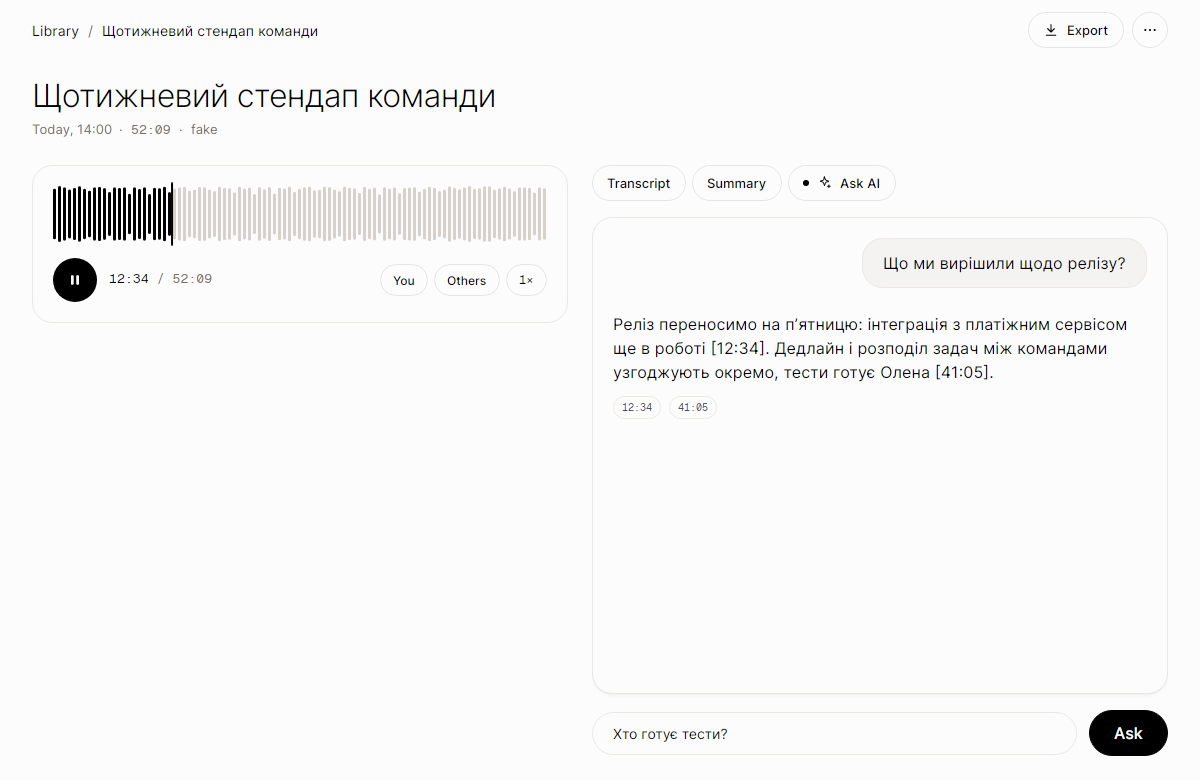
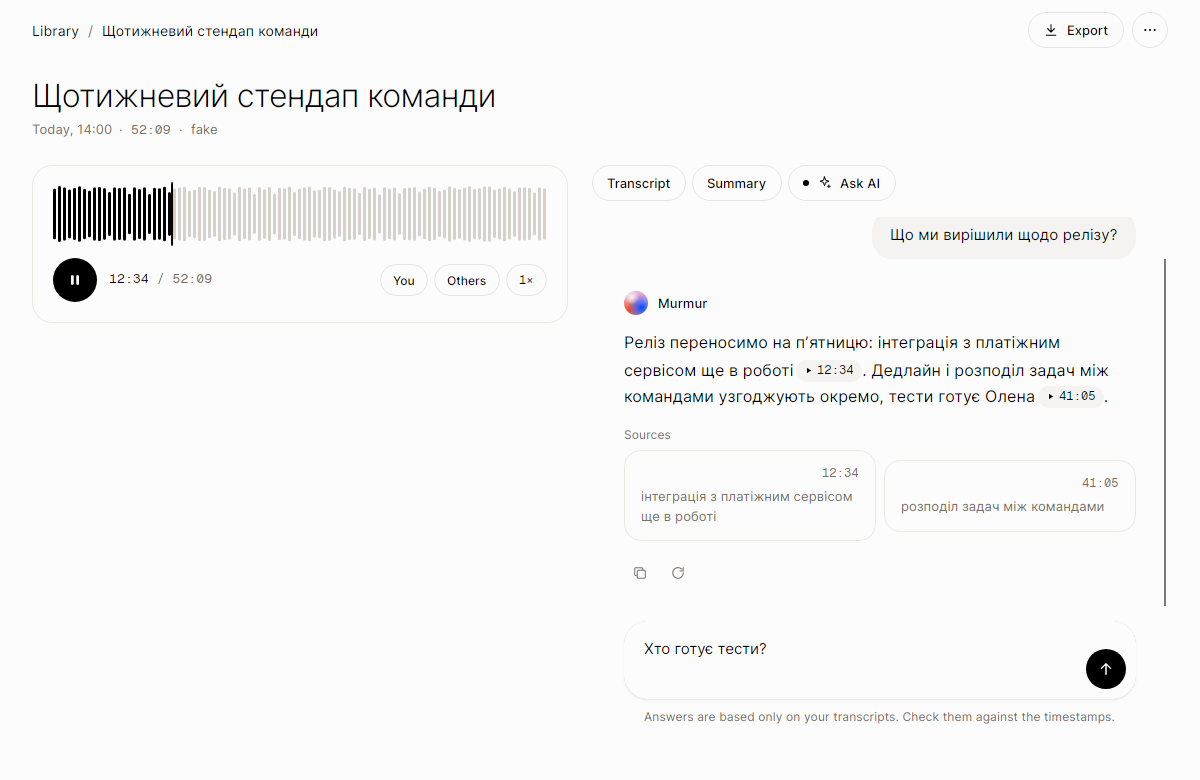
feat(session): the screen video follows the playback speed
MediaEngineVideoPlayer implements IVideoPlayerControls; SessionViewModel hands the
speed in effect to the video on every change, when the player is created and after
each segment open. Sync simulation at 0.75-2x, App tests, D-046 and docs updated.

diff --git a/tests/Murmur.Core.Tests/Playback/ScreenPlaybackSyncTests.cs b/tests/Murmur.Core.Tests/Playback/ScreenPlaybackSyncTests.cs
@@ -315,6 +315,38 @@ public sealed class ScreenPlaybackSyncTests
         Assert.True(sim.PlaceholderTicks > 0);
     }
 
+    [Theory]
+    [InlineData(0.75)]
+    [InlineData(1.25)]
+    [InlineData(1.5)]
+    [InlineData(2)]
+    public void Simulation_AtAnotherSpeed_AVideoAtTheSameRate_StaysInSync_WithoutConstantSeeks(double rate)
+    {
+        // Both clocks run in media time: the audio position advances `rate` x wall time and so does the video at the same rate.
+        var segments = new[] { new ScreenSegment(0, S(3), S(10)), new ScreenSegment(1, S(20), S(12)) };
+        var sim = new Simulation(segments, openLatency: 120 * Ms, seekLatency: 80 * Ms, audioRate: rate, videoRate: rate);
+        sim.Audio.Play();
+        sim.Run(S(40 / rate));
+
+        Assert.Equal([0, 1], sim.Video.Opened);
+        Assert.True(sim.Video.Seeks.Count <= 4, $"{sim.Video.Seeks.Count} seeks at {rate}x");
+        // The open and seek latencies are wall time, so the media time that passes while they last grows with the rate.
+        Assert.True(sim.OutOfSyncTicks <= 20 * Math.Max(1, rate) + 2, $"{sim.OutOfSyncTicks} ticks out of sync at {rate}x");
+    }
+
+    [Fact]
+    public void Simulation_AtDoubleSpeed_AVideoLeftAt1x_IsReSoughtAllTheTime()
+    {
+        // The reason the video follows the speed: at 1x it falls 1 s behind per second and is seeked back over and over.
+        var segments = new[] { new ScreenSegment(0, S(3), S(30)) };
+        var sim = new Simulation(segments, openLatency: 120 * Ms, seekLatency: 80 * Ms, audioRate: 2, videoRate: 1);
+        sim.Audio.Play();
+        sim.Run(S(12));
+
+        Assert.True(sim.Video.Seeks.Count >= 8, $"{sim.Video.Seeks.Count} seeks");
+        Assert.True(sim.OutOfSyncTicks > 40, $"{sim.OutOfSyncTicks} ticks out of sync");
+    }
+
     [Fact]
     public void Simulation_UserSeeksAcrossSegments_FollowTheAudio()
     {
@@ -435,12 +467,12 @@ public sealed class ScreenPlaybackSyncTests
     {
         private static readonly TimeSpan Tick = TimeSpan.FromMilliseconds(33);
 
-        public Simulation(ScreenSegment[] segments, TimeSpan openLatency, TimeSpan seekLatency, bool frozen = false, TimeSpan[]? seekLatencies = null)
+        public Simulation(ScreenSegment[] segments, TimeSpan openLatency, TimeSpan seekLatency, bool frozen = false, TimeSpan[]? seekLatencies = null, double audioRate = 1, double videoRate = 1)
         {
             Time = new ManualTimeProvider();
             Sync = new ScreenPlaybackSync(segments, time: Time);
-            Audio = new FakeAudio(S(40));
-            Video = new FakeVideo(Time, segments, openLatency, seekLatencies ?? [seekLatency], frozen);
+            Audio = new FakeAudio(S(40), audioRate);
+            Video = new FakeVideo(Time, segments, openLatency, seekLatencies ?? [seekLatency], frozen, videoRate);
         }
 
         public ManualTimeProvider Time { get; }
@@ -517,7 +549,7 @@ public sealed class ScreenPlaybackSyncTests
         }
     }
 
-    private sealed class FakeAudio(TimeSpan duration)
+    private sealed class FakeAudio(TimeSpan duration, double rate = 1)
     {
         public TimeSpan Position { get; private set; }
 
@@ -533,7 +565,7 @@ public sealed class ScreenPlaybackSyncTests
         {
             if (IsPlaying)
             {
-                Position += by;
+                Position += by * rate;
                 if (Position >= duration)
                 {
                     Position = duration;
@@ -548,7 +580,7 @@ public sealed class ScreenPlaybackSyncTests
     /// the picture stands still for the seek latency; at its end playback stops. A frozen one never advances (a decoder
     /// that cannot keep up at all).
     /// </summary>
-    private sealed class FakeVideo(ManualTimeProvider time, ScreenSegment[] segments, TimeSpan openLatency, TimeSpan[] seekLatencies, bool frozen)
+    private sealed class FakeVideo(ManualTimeProvider time, ScreenSegment[] segments, TimeSpan openLatency, TimeSpan[] seekLatencies, bool frozen, double rate = 1)
     {
         private int _segment = VideoPlayerState.NoSegment;
         private TimeSpan _openRemaining;
@@ -625,7 +657,7 @@ public sealed class ScreenPlaybackSyncTests
 
             if (_playing && !frozen)
             {
-                Position += by;
+                Position += by * rate;
                 if (Position >= _duration)
                 {
                     Position = _duration;

diff --git a/tests/Murmur.App.Tests/SessionVideoTests.cs b/tests/Murmur.App.Tests/SessionVideoTests.cs
@@ -127,6 +127,118 @@ public sealed class SessionVideoTests : IDisposable
     }
 
     [Fact]
+    public async Task TheSpeedChip_ReachesTheVideo()
+    {
+        var (vm, video, _) = Create();
+        await vm.LoadAsync();
+        Assert.Equal(1, video.Rate);
+
+        vm.CycleSpeedCommand.Execute(null);
+        Assert.Equal(1.25, video.Rate);
+        vm.CycleSpeedCommand.Execute(null);
+        vm.CycleSpeedCommand.Execute(null);
+        Assert.Equal(2, video.Rate);
+        Assert.Equal(_fixture.Player.Speed, video.Rate);
+        vm.CycleSpeedCommand.Execute(null);
+        vm.CycleSpeedCommand.Execute(null);
+        Assert.Equal(1, video.Rate);
+    }
+
+    [Fact]
+    public async Task ANewSegment_GetsTheCurrentRate_AfterItWasOpened()
+    {
+        var (vm, video, _) = Create();
+        await vm.LoadAsync();
+        vm.CycleSpeedCommand.Execute(null);
+        vm.CycleSpeedCommand.Execute(null); // 1.5x
+
+        vm.SeekTo(S(15)); // the gap closes segment 0
+        vm.SeekTo(S(25)); // segment 1 opens
+
+        Assert.Equal(1.5, video.Rate);
+        var calls = video.Calls;
+        var lastOpen = calls.LastIndexOf("open");
+        Assert.True(calls.IndexOf("rate:1.5", lastOpen) > lastOpen, string.Join(", ", calls));
+    }
+
+    [Fact]
+    public async Task ASpeedChosenBeforeTheVideoExists_IsHandedOverWhenItIsCreated()
+    {
+        _fixture.Player.SetSpeed(2);
+        var (vm, video, _) = Create();
+        vm.CycleSpeedCommand.Execute(null); // 1.25x on the view model, applied again when the player opens
+
+        await vm.LoadAsync();
+
+        Assert.Equal(_fixture.Player.Speed, video.Rate);
+    }
+
+    [Fact]
+    public async Task AVideoPlayerWithoutRateControl_StillPlaysAndSeeks()
+    {
+        var inner = new FakeVideoPlayer(S(10));
+        var record = _fixture.Record with { ScreenSegments = TwoSegments };
+        foreach (var segment in TwoSegments)
+        {
+            File.WriteAllBytes(_fixture.Files.ScreenSegment(segment.Index), [0]);
+        }
+
+        var vm = new SessionViewModel(record, _fixture.Files, _fixture.Transcripts, _fixture.Player, _fixture.Processing, _fixture.Time, action => action(), videoPlayback: new PlainVideoPlayback(inner));
+        await vm.LoadAsync();
+
+        vm.CycleSpeedCommand.Execute(null);
+        vm.PlayPauseCommand.Execute(null);
+        vm.SeekTo(S(5));
+
+        Assert.True(vm.IsVideoOpen);
+        Assert.Equal(1.25, _fixture.Player.Speed);
+        Assert.Empty(inner.Rates);
+        Assert.Equal(1, inner.Plays);
+        Assert.Equal([S(5)], inner.Seeks);
+    }
+
+    /// <summary>A video player that offers nothing beyond <see cref="IVideoPlayer"/>.</summary>
+    private sealed class PlainVideoPlayer(IVideoPlayer inner) : IVideoPlayer
+    {
+        public bool IsOpen => inner.IsOpen;
+
+        public TimeSpan Duration => inner.Duration;
+
+        public VideoSize Size => inner.Size;
+
+        public TimeSpan Position => inner.Position;
+
+        public bool IsPlaying => inner.IsPlaying;
+
+        public event Action<string>? Failed
+        {
+            add => inner.Failed += value;
+            remove => inner.Failed -= value;
+        }
+
+        public ValueTask OpenAsync(string filePath, CancellationToken cancellationToken) => inner.OpenAsync(filePath, cancellationToken);
+
+        public void Close() => inner.Close();
+
+        public void Play() => inner.Play();
+
+        public void Pause() => inner.Pause();
+
+        public void Seek(TimeSpan position) => inner.Seek(position);
+
+        public bool TryCopyFrame(Span<byte> destination, int width, int height, int stride) => inner.TryCopyFrame(destination, width, height, stride);
+
+        public void Dispose() => inner.Dispose();
+    }
+
+    private sealed class PlainVideoPlayback(IVideoPlayer inner) : IVideoPlayback
+    {
+        public bool IsSupported => true;
+
+        public IVideoPlayer CreateVideoPlayer() => new PlainVideoPlayer(inner);
+    }
+
+    [Fact]
     public async Task PlayAndPause_FollowTheAudio()
     {
         var (vm, video, _) = Create();

diff --git a/src/Murmur.App/ViewModels/SessionViewModel.Player.cs b/src/Murmur.App/ViewModels/SessionViewModel.Player.cs
@@ -66,6 +66,27 @@ public sealed partial class SessionViewModel
             Speed = controls.Speed;
             SpeedText = SpeedLabel(Speed);
         }
+
+        ApplyVideoRate();
+    }
+
+    /// <summary>
+    /// Hands the speed in effect to the screen video (when its player can follow it), so it keeps pace with the audio clock instead of
+    /// being re-sought all the time. Called on every speed change and whenever a segment was opened or the player created.
+    /// </summary>
+    private void ApplyVideoRate()
+    {
+        if (_video is IVideoPlayerControls video)
+        {
+            try
+            {
+                video.SetPlaybackRate(Speed);
+            }
+            catch (Exception)
+            {
+                // A video that cannot change its rate is kept in step by the audio clock's seeks, as before.
+            }
+        }
     }
 
     partial void OnYouOnChanged(bool value) => ApplyTrackFilters();
@@ -86,8 +107,11 @@ public sealed partial class SessionViewModel
         if (_controls.CanChangeSpeed)
         {
             _controls.SetSpeed(Speed);
+            Speed = _controls.Speed;
+            SpeedText = SpeedLabel(Speed);
         }
 
+        ApplyVideoRate();
         ApplyTrackFilters();
     }
 

diff --git a/src/Murmur.Capture.Windows/Video/MediaEngineVideoPlayer.cs b/src/Murmur.Capture.Windows/Video/MediaEngineVideoPlayer.cs
@@ -40,7 +40,7 @@ namespace Murmur.Capture.Windows.Video;
 /// that calls <see cref="Close"/> or <see cref="Dispose"/>).</para>
 /// UNVERIFIED-ON-WINDOWS until the Windows-trait tests run in CI.
 /// </remarks>
-public sealed class MediaEngineVideoPlayer : IVideoPlayer
+public sealed class MediaEngineVideoPlayer : IVideoPlayer, IVideoPlayerControls
 {
     /// <summary>Consecutive failed transfers of a due frame before <see cref="Failed"/> is raised (once per file).</summary>
     internal const int TransferFailuresBeforeReport = 60;
@@ -479,6 +479,7 @@ public sealed class MediaEngineVideoPlayer : IVideoPlayer
     /// The rate the open file plays at (1 = real time), kept for the files opened later. The session view sets it to the speed of
     /// the audio, which is the master clock: a video that plays at 1x while the audio runs at 2x would drift out of tolerance
     /// and be re-sought over and over. Clamped to [0.25, 4]; a failure is reported through <see cref="Failed"/>, not thrown.
+    /// The engine keeps the rate across Play, Pause and seeks (HTML playbackRate semantics), so a Play-then-Pause recovery step does not reset it.
     /// </summary>
     public void SetPlaybackRate(double rate)
     {

diff --git a/tests/Murmur.App.Tests/Fakes/FakeVideoPlayer.cs b/tests/Murmur.App.Tests/Fakes/FakeVideoPlayer.cs
@@ -7,7 +7,7 @@ namespace Murmur.App.Tests.Fakes;
 /// are a solid colour. A picture is "new" once per <see cref="NewPicture"/> call, or on every call with
 /// <see cref="Continuous"/>.
 /// </summary>
-internal sealed class FakeVideoPlayer : IVideoPlayer
+internal sealed class FakeVideoPlayer : IVideoPlayer, IVideoPlayerControls
 {
     private readonly TimeSpan _fileDuration;
     private bool _fresh;
@@ -43,6 +43,18 @@ internal sealed class FakeVideoPlayer : IVideoPlayer
     public int Pauses { get; private set; }
 
     public bool Disposed { get; private set; }
+
+    /// <summary>The rate asked for last (1 until then); every call is also in <see cref="Calls"/> as "rate:x".</summary>
+    public double Rate { get; private set; } = 1;
+
+    public List<double> Rates { get; } = [];
+
+    public void SetPlaybackRate(double rate)
+    {
+        Rate = rate;
+        Rates.Add(rate);
+        Calls.Add(FormattableString.Invariant($"rate:{rate}"));
+    }
 
     /// <summary>Completes the open when set by the test; null = the open completes at once.</summary>
     public TaskCompletionSource? OpenGate { get; set; }

diff --git a/src/Murmur.App/ViewModels/SessionViewModel.Video.cs b/src/Murmur.App/ViewModels/SessionViewModel.Video.cs
@@ -83,6 +83,7 @@ public sealed partial class SessionViewModel
         player.Failed += OnVideoFailed;
         VideoPlayer = player;
         HasVideo = true;
+        ApplyVideoRate();
         SyncVideo();
     }
 
@@ -208,6 +209,7 @@ public sealed partial class SessionViewModel
 
         _openingSegment = VideoPlayerState.NoSegment;
         _openSegment = index;
+        ApplyVideoRate();
         var size = video.Size;
         VideoInfoText = UiText.Format(Strings.Session_VideoInfo, size.Width, size.Height);
         VideoRevision++;

diff --git a/docs/REPORTS/p41-playback-speed.md b/docs/REPORTS/p41-playback-speed.md
@@ -23,12 +23,15 @@
 
 `MediaEngineVideoPlayer.SetPlaybackRate(double)` (IMFMediaEngine::SetDefaultPlaybackRate [22] + SetPlaybackRate [24], слоти додано в `VideoVtables` і `VideoInteropLayoutTests`; ставиться й при кожному наступному відкритті). Без цього відео, що йде 1×, при аудіо 2× розходиться на 1 с/с і `ScreenPlaybackSync` перемотує його кожні 500 мс.
 
-**Відкрите питання (потрібне рішення архітектора):** `IVideoPlayer` у Core не має швидкості, а `Murmur.App` бачить лише Core, тому `SessionViewModel` не може передати швидкість відеоплеєру. Потрібен у Core необов'язковий інтерфейс за зразком D-046, наприклад `IVideoPlayerControls { void SetPlaybackRate(double rate); }`, який реалізує `MediaEngineVideoPlayer`, і виклик у `SessionViewModel.Player.cs` після `controls.SetSpeed(...)` (`(_video as IVideoPlayerControls)?.SetPlaybackRate(Speed)`, а також після відкриття сегмента). Поки цього немає, на 1× усе як було, а на інших швидкостях аудіо й транскрипт правильні, відео рухається ривками.
+**Проводка (за рішенням архітектора, `a9dcf45`):** Core має необов'язковий `IVideoPlayerControls { SetPlaybackRate }` (за зразком D-046). `MediaEngineVideoPlayer` його реалізує. `SessionViewModel` викликає `SetPlaybackRate(швидкість, що діє)` після `controls.SetSpeed(...)` (чіп і відкриття аудіо), при створенні відеоплеєра й після відкриття кожного сегмента (`ApplyVideoRate`); плеєр без інтерфейсу працює як раніше (синхронізація перемотками). Ставка Media Engine зберігається при `Play`/`Pause` і `SetCurrentTime` (семантика playbackRate з HTML: її змінює лише `SetPlaybackRate`), тож східці відновлення перемотки на `fix/player-seek-recovery` (в т.ч. PlayPause) її не скидають; це підтвердить лише Windows. Мій код ізольований: окремий метод біля `OnResourceLost` і один `if` після `_open = true`.
+
+`ScreenPlaybackSync` порівнює позицію аудіо (медіа-час) з позицією відео (медіа-час файлу), тож змін не потребує. Підтверджено симуляцією (`ScreenPlaybackSyncTests`): при 0.75/1.25/1.5/2× і відео з тією ж ставкою — ті ж ≤ 4 перемотки за 40 с медіа й у синхроні (вікно розсинхрону росте лише через затримки open/seek у стінному часі); відео, залишене на 1× при аудіо 2×, перемотується постійно (≥ 8 разів за 12 с) — саме це виправляє ставка.
 
 ## Тести (Linux, `dotnet test tests/Murmur.Capture.Windows.Tests`)
 
 - `WsolaStretcherTests`: тривалість = `ceil(N/s)` ±1 кадр (≈ 60 мкс) на 0.5/0.75/1.25/1.5/2; синус 200/440/1000 Гц зберігає частоту ±1 % (нулі синуса) на 0.75/1.25/1.5/2; основний тон «голосу» (120 Гц + гармоніки) ±3 %; стрибок між сусідніми кадрами на стиках синуса ≤ 1.1 × природного кроку; на «голосі» ≤ 1.5 × макс. кроку входу; швидкість 1 — побітово ідентичний вхід при будь-якому розбитті на блоки (і після seek); `MediaPosition` = кадри × швидкість і закінчується на довжині запису; seek скидає стан і вплавляє; зміна швидкості під час відтворення (1.25 → 1 → 2 → 0.75 → 1 → 1.5) без розривів і діє ≤ 1600 кадрів (100 мс); повернення на 1 продовжує без повторів і пропусків; джерела 0–500 кадрів; тиша лишається тишею; **нуль алокацій** `Render` на швидкості ≠ 1 (і з реальним `TrackMixer`).
 - `WasapiPlayerSpeedTests`: `CanChangeSpeed`, кламп, швидкість доходить до рушія (до відкриття, під час гри, після перевідкриття й перезапуску рушія після збою), позиція не масштабується вдруге, `PlayedMediaFrame`, мют зі згасанням під стретчером.
+- App (`SessionVideoTests`): чіп доходить до відео; новий сегмент дістає поточну ставку після `open`; швидкість, обрана до створення відео, передається; плеєр без `IVideoPlayerControls` працює. `FakeVideoPlayer` реалізує інтерфейс.
 - `WasapiAudioPlayerContractTests` оновлено (`CanChangeSpeed == true`); App-тести не змінено: вони користуються фейком, а «чіп вимкнений, якщо плеєр не вміє» — як і раніше правильний запасний варіант для плеєрів без швидкості.
 - Бенчмарк `WsolaStretcherBenchmarks` (`dotnet run -c Release --project tests/Murmur.Benchmarks -- --filter "*Wsola*"`), 1 с виходу (20 колбеків по 50 мс), Xeon 2.8 ГГц: 0.75× — 0.83 мс, 1× — 1 мкс (passthrough), 1.5× — 0.86 мс, 2× — 0.93 мс; алокацій 0. Це < 0.1 % одного ядра.
 
@@ -36,4 +39,4 @@
 
 - `WasapiPlaybackTests.Speed_RunsThePositionInMediaTime_...` (Trait Windows): на 1.5× позиція за ~1 с ≈ 1.5 с (±150 мс); `SetSpeed(1)` під час гри повертає реальний час; seek на 2× і кінець за ~1 с; `LastFault == null`. Раннер без звукової карти пропускає тест.
 - На слух: тон не пливе, немає клацань на стиках і при зміні швидкості, мова розбірлива на 2×; м'ют під час гри на 1.5×.
-- `VideoInteropLayoutTests` (слоти 22 і 24 `IMFMediaEngine`) і поведінка `SetPlaybackRate` на справжньому Media Engine — після того як буде проводка з Core.
+- `VideoInteropLayoutTests` (слоти 22 і 24 `IMFMediaEngine`) і поведінка `SetPlaybackRate` на справжньому Media Engine: відео тримає ставку після `Play`/`Pause`/seek, немає постійних перемоток на 1.5×/2×.

diff --git a/docs/DECISIONS.md b/docs/DECISIONS.md
@@ -49,5 +49,5 @@
 | D-043 | 4.1 | Core не віддає речень для UI: проблеми сесії й запису зберігаються кодами (`rec.*`, `proc.*`, опційно `код\|деталь`, `SessionNotes`), а слова обома мовами — у ресурсах App (`SessionNoteText`); назву запису за замовчуванням формує App («Untitled — Oct 18, 01:12»); старі українські тексти вже збережених сесій показуються як є. Системний промпт асистента й мітки «Я»/«Інші» в уривках — вхід моделі, не UI, лишаються | З англійською за замовчуванням (D-039) речення з Core з'являлися українською в англійському UI; коди не залежать від мови і переживають її зміну | Передавати в Core культуру й локалізувати там |
 | D-044 | 4.1 | `tokens.json` доповнюється значеннями, які вже використовує канвас, але яких у токенах не було: розміри тексту з висотою рядка (12/13/15/17/24 px), радіуси (6/10/16), проміжні відступи (2/3/6/10/14/28), шари градієнта орба як окремі кольори; TokenGen генерує їх, ручні ключі зі «схожими на токени» іменами в стилях заборонені. Розміри конкретних компонентів (висота пігулки, ширина бічної панелі) лишаються іменованими ресурсами компонентів | Дизайн 1:1 вимагає саме цих значень, а «тільки токени» без них змушувало б або відхилятися від канвасу, або писати значення в обхід генератора | Округлювати до старої шкали токенів (тоді не 1:1) |
 | D-045 | 4.1 | Назву сесії змінює лише `ISessionStore.RenameSessionAsync` (`UPDATE sessions SET title`); `UpdateSessionAsync` назву не пише. Рекордер після створення сесії назву не чіпає | Перейменування під час зупинки запису переписувало весь рядок застарілими даними (стан, тривалість, помилка); окремий запис лише назви прибирає гонку між UI, рекордером і обробкою | Серіалізувати всі записи сесії через рекордер |
-| D-046 | 4.1 | Керування відтворенням доріжок — окремий необов'язковий інтерфейс `IAudioPlayerControls` поруч з `IAudioPlayer` (`CanMuteTracks`, `SetTrackMuted`, `IsTrackMuted`, `CanChangeSpeed`, `Speed`, `SetSpeed`, `MaxTracks`); доріжка — позиція у списку, переданому `OpenAsync` (0 — мікрофон, 1 — системний звук), поза діапазоном — `ArgumentOutOfRangeException`; швидкість обмежує сам плеєр, `Speed` — фактичне значення. На Windows (WASAPI) поки лише вимкнення доріжки зі згасанням 10 мс; швидкість — окрема задача (розтягування в часі без зміни тону) | Фільтри You / Others і чіп швидкості з макета потребують керування плеєром; окремий інтерфейс не ламає наявних реалізацій `IAudioPlayer`, а UI вмикає кнопки за `Can*` | Розширити `IAudioPlayer` (зламало б усі реалізації й фейки) |
+| D-046 | 4.1 | Керування відтворенням доріжок — окремий необов'язковий інтерфейс `IAudioPlayerControls` поруч з `IAudioPlayer` (`CanMuteTracks`, `SetTrackMuted`, `IsTrackMuted`, `CanChangeSpeed`, `Speed`, `SetSpeed`, `MaxTracks`); доріжка — позиція у списку, переданому `OpenAsync` (0 — мікрофон, 1 — системний звук), поза діапазоном — `ArgumentOutOfRangeException`; швидкість обмежує сам плеєр, `Speed` — фактичне значення. На Windows (WASAPI) — вимкнення доріжки зі згасанням 10 мс і швидкість 0.5–2× без зміни тону (розтягування в часі WSOLA у рендер-шляху, позиція в медіа-часі); відео екрана йде з тією самою швидкістю через необов'язковий `IVideoPlayerControls.SetPlaybackRate` (`MediaEngineVideoPlayer`), а `SessionViewModel` передає йому швидкість, що діє | Фільтри You / Others і чіп швидкості з макета потребують керування плеєром; окремий інтерфейс не ламає наявних реалізацій `IAudioPlayer`, а UI вмикає кнопки за `Can*` | Розширити `IAudioPlayer` (зламало б усі реалізації й фейки) |
 | D-047 | 4.1 | Ідентифікатори завантажень збірок Vulkan / CUDA передає застосунку composition root (`AiServices.AccelerationRuntimeIds`, з `ModelCatalog`), а не вгадує App за шаблоном рядка | App не бачить `Murmur.Models`; виведення id з id CPU-збірки ламалося б мовчки від перейменування чи іншого тегу | Новий інтерфейс у Core |

diff --git a/docs/tasks/p41-session.md b/docs/tasks/p41-session.md
@@ -27,6 +27,7 @@ AI rules stay: never while recording; the model loads lazily in the worker and u
    the session (peaks from the audio, ink before the playhead, light after; click/drag seeks), play/pause, time
    "12:21 / 47:12" in Geist Mono, track filters **You** / **Others** (mute that track in playback and dim its lines),
    speed chip **1×** (cycles 1, 1.25, 1.5, 2, 0.75).
+   (Update: the WASAPI player first shipped with the speed chip disabled; it now time-stretches 0.5-2x with pitch preserved and the screen video follows via `IVideoPlayerControls`, see `docs/REPORTS/p41-playback-speed.md`.)
 4. Right column: tabs **Transcript / Summary / Ask AI** (pill style; the active one has the dot):
    - Transcript: "Search transcript" box (highlights hits like the canvas, Enter jumps to the next); rows with the
      avatar (Y / O), speaker, time (Geist Mono), text; the current segment is the filled row; click seeks.
